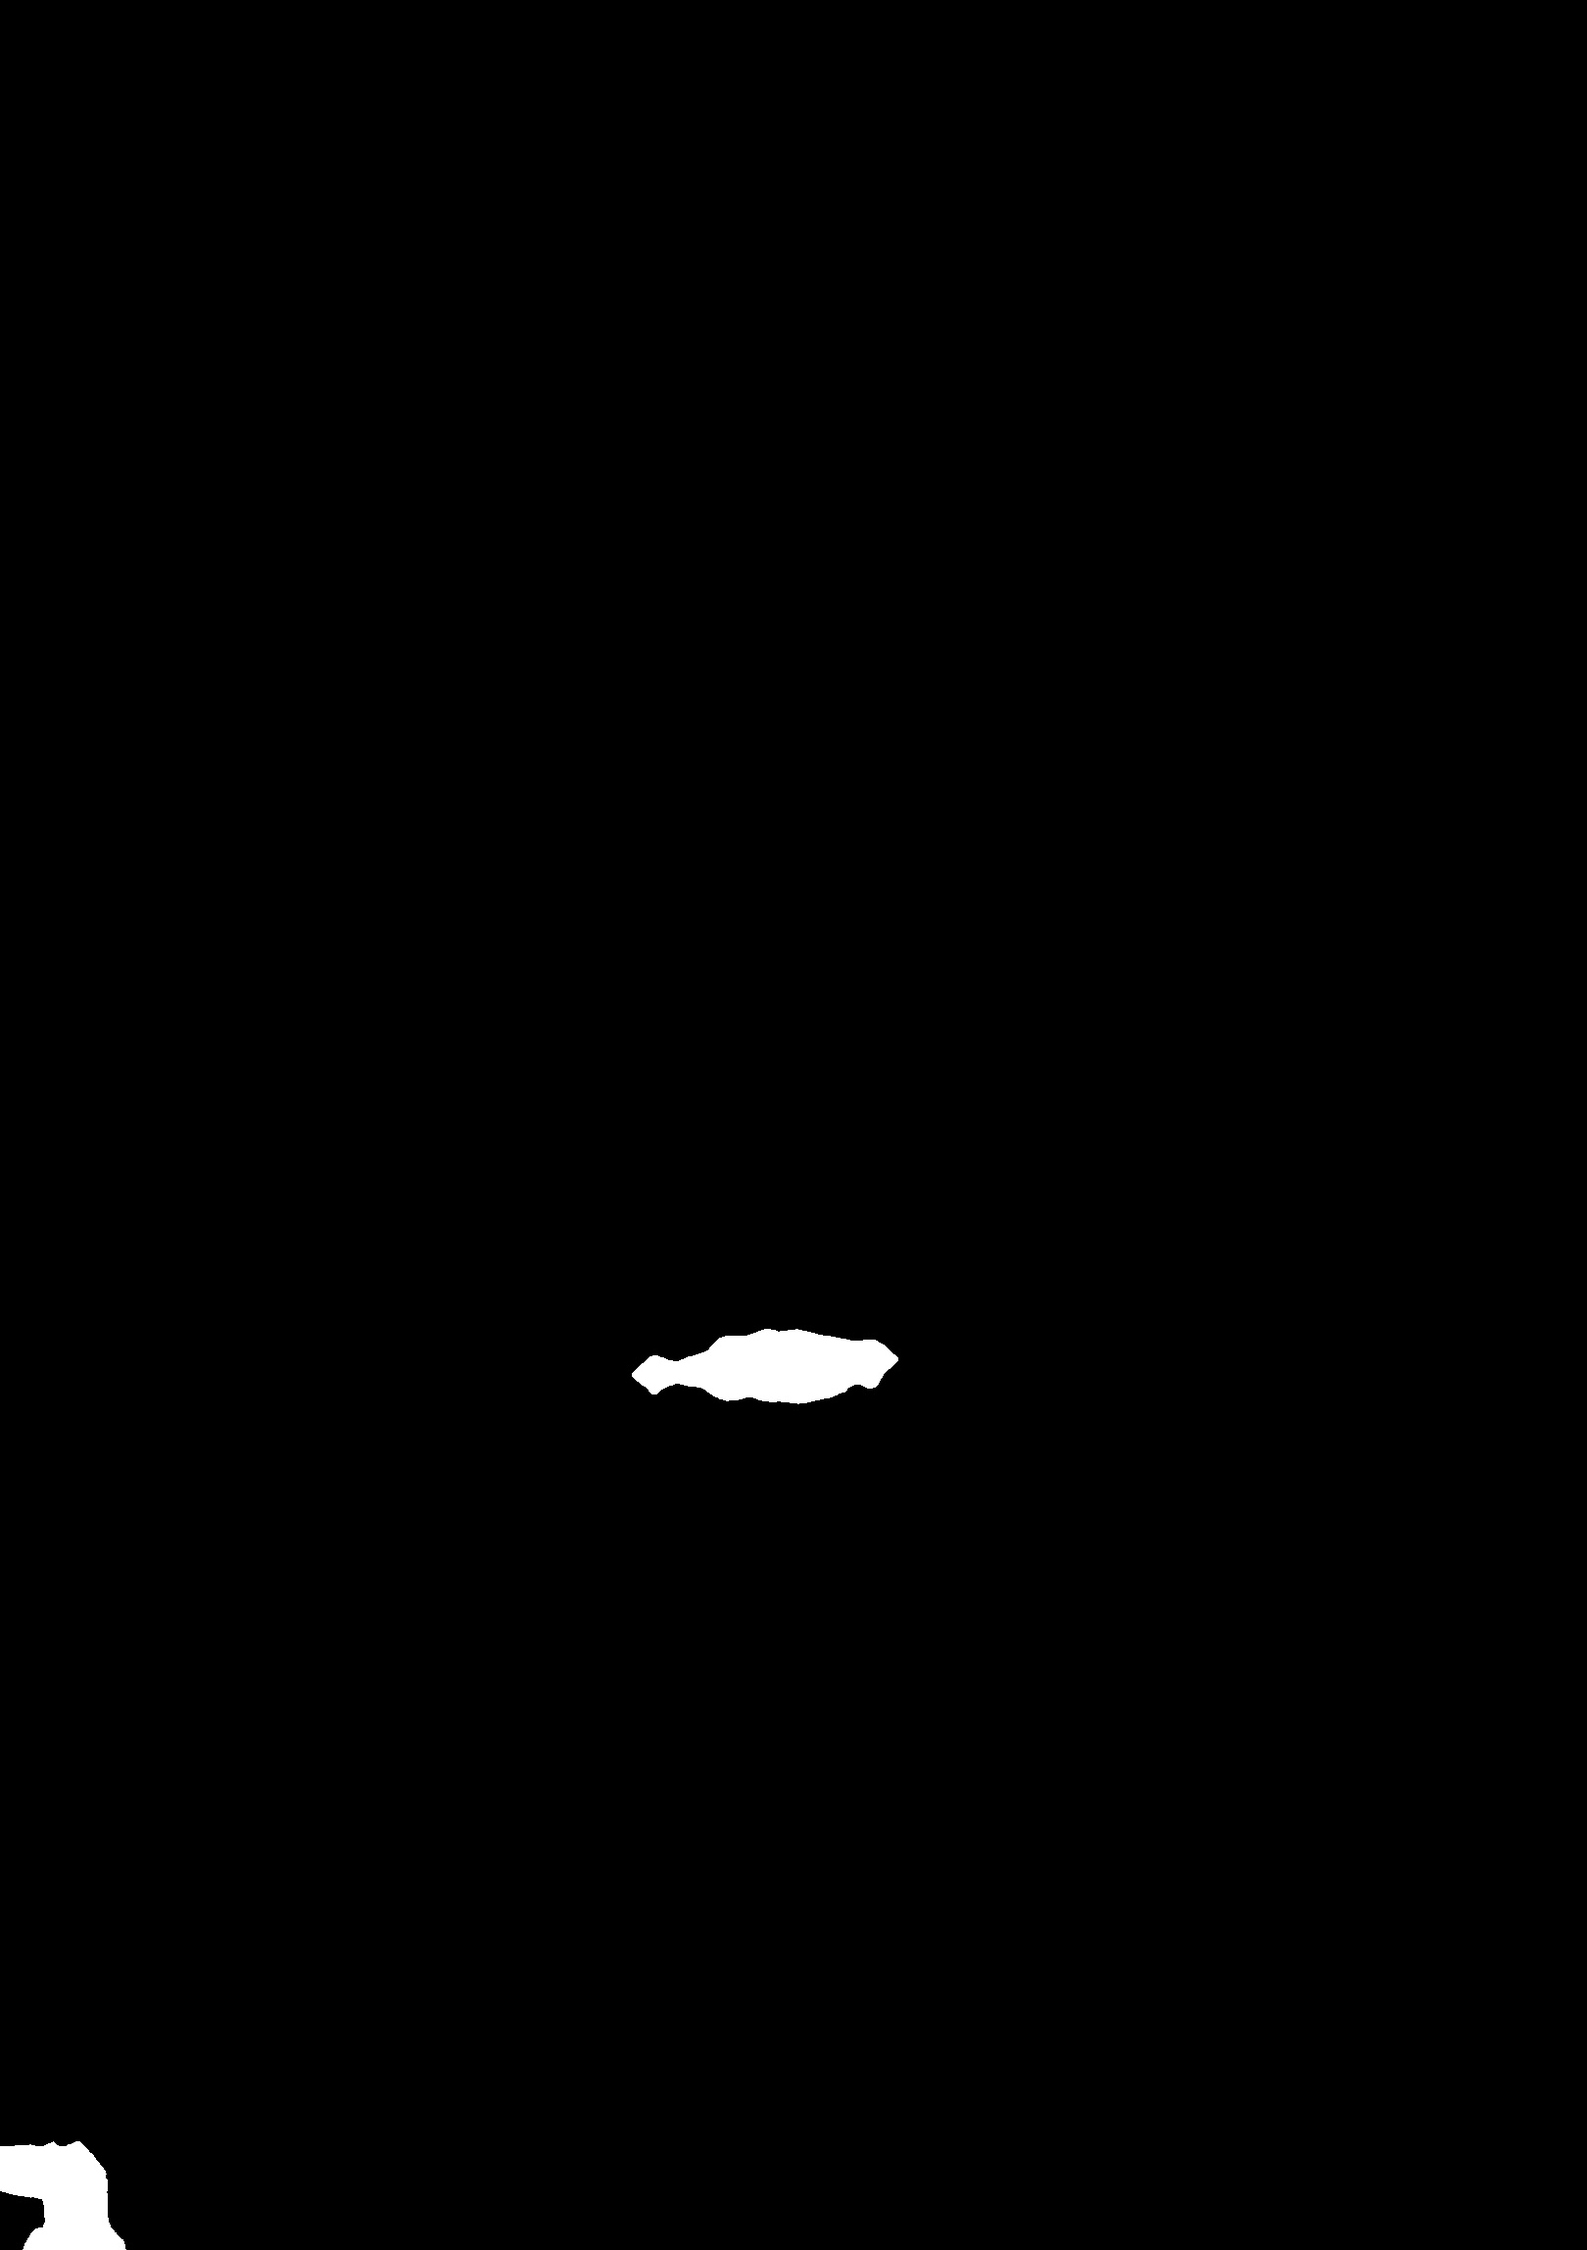
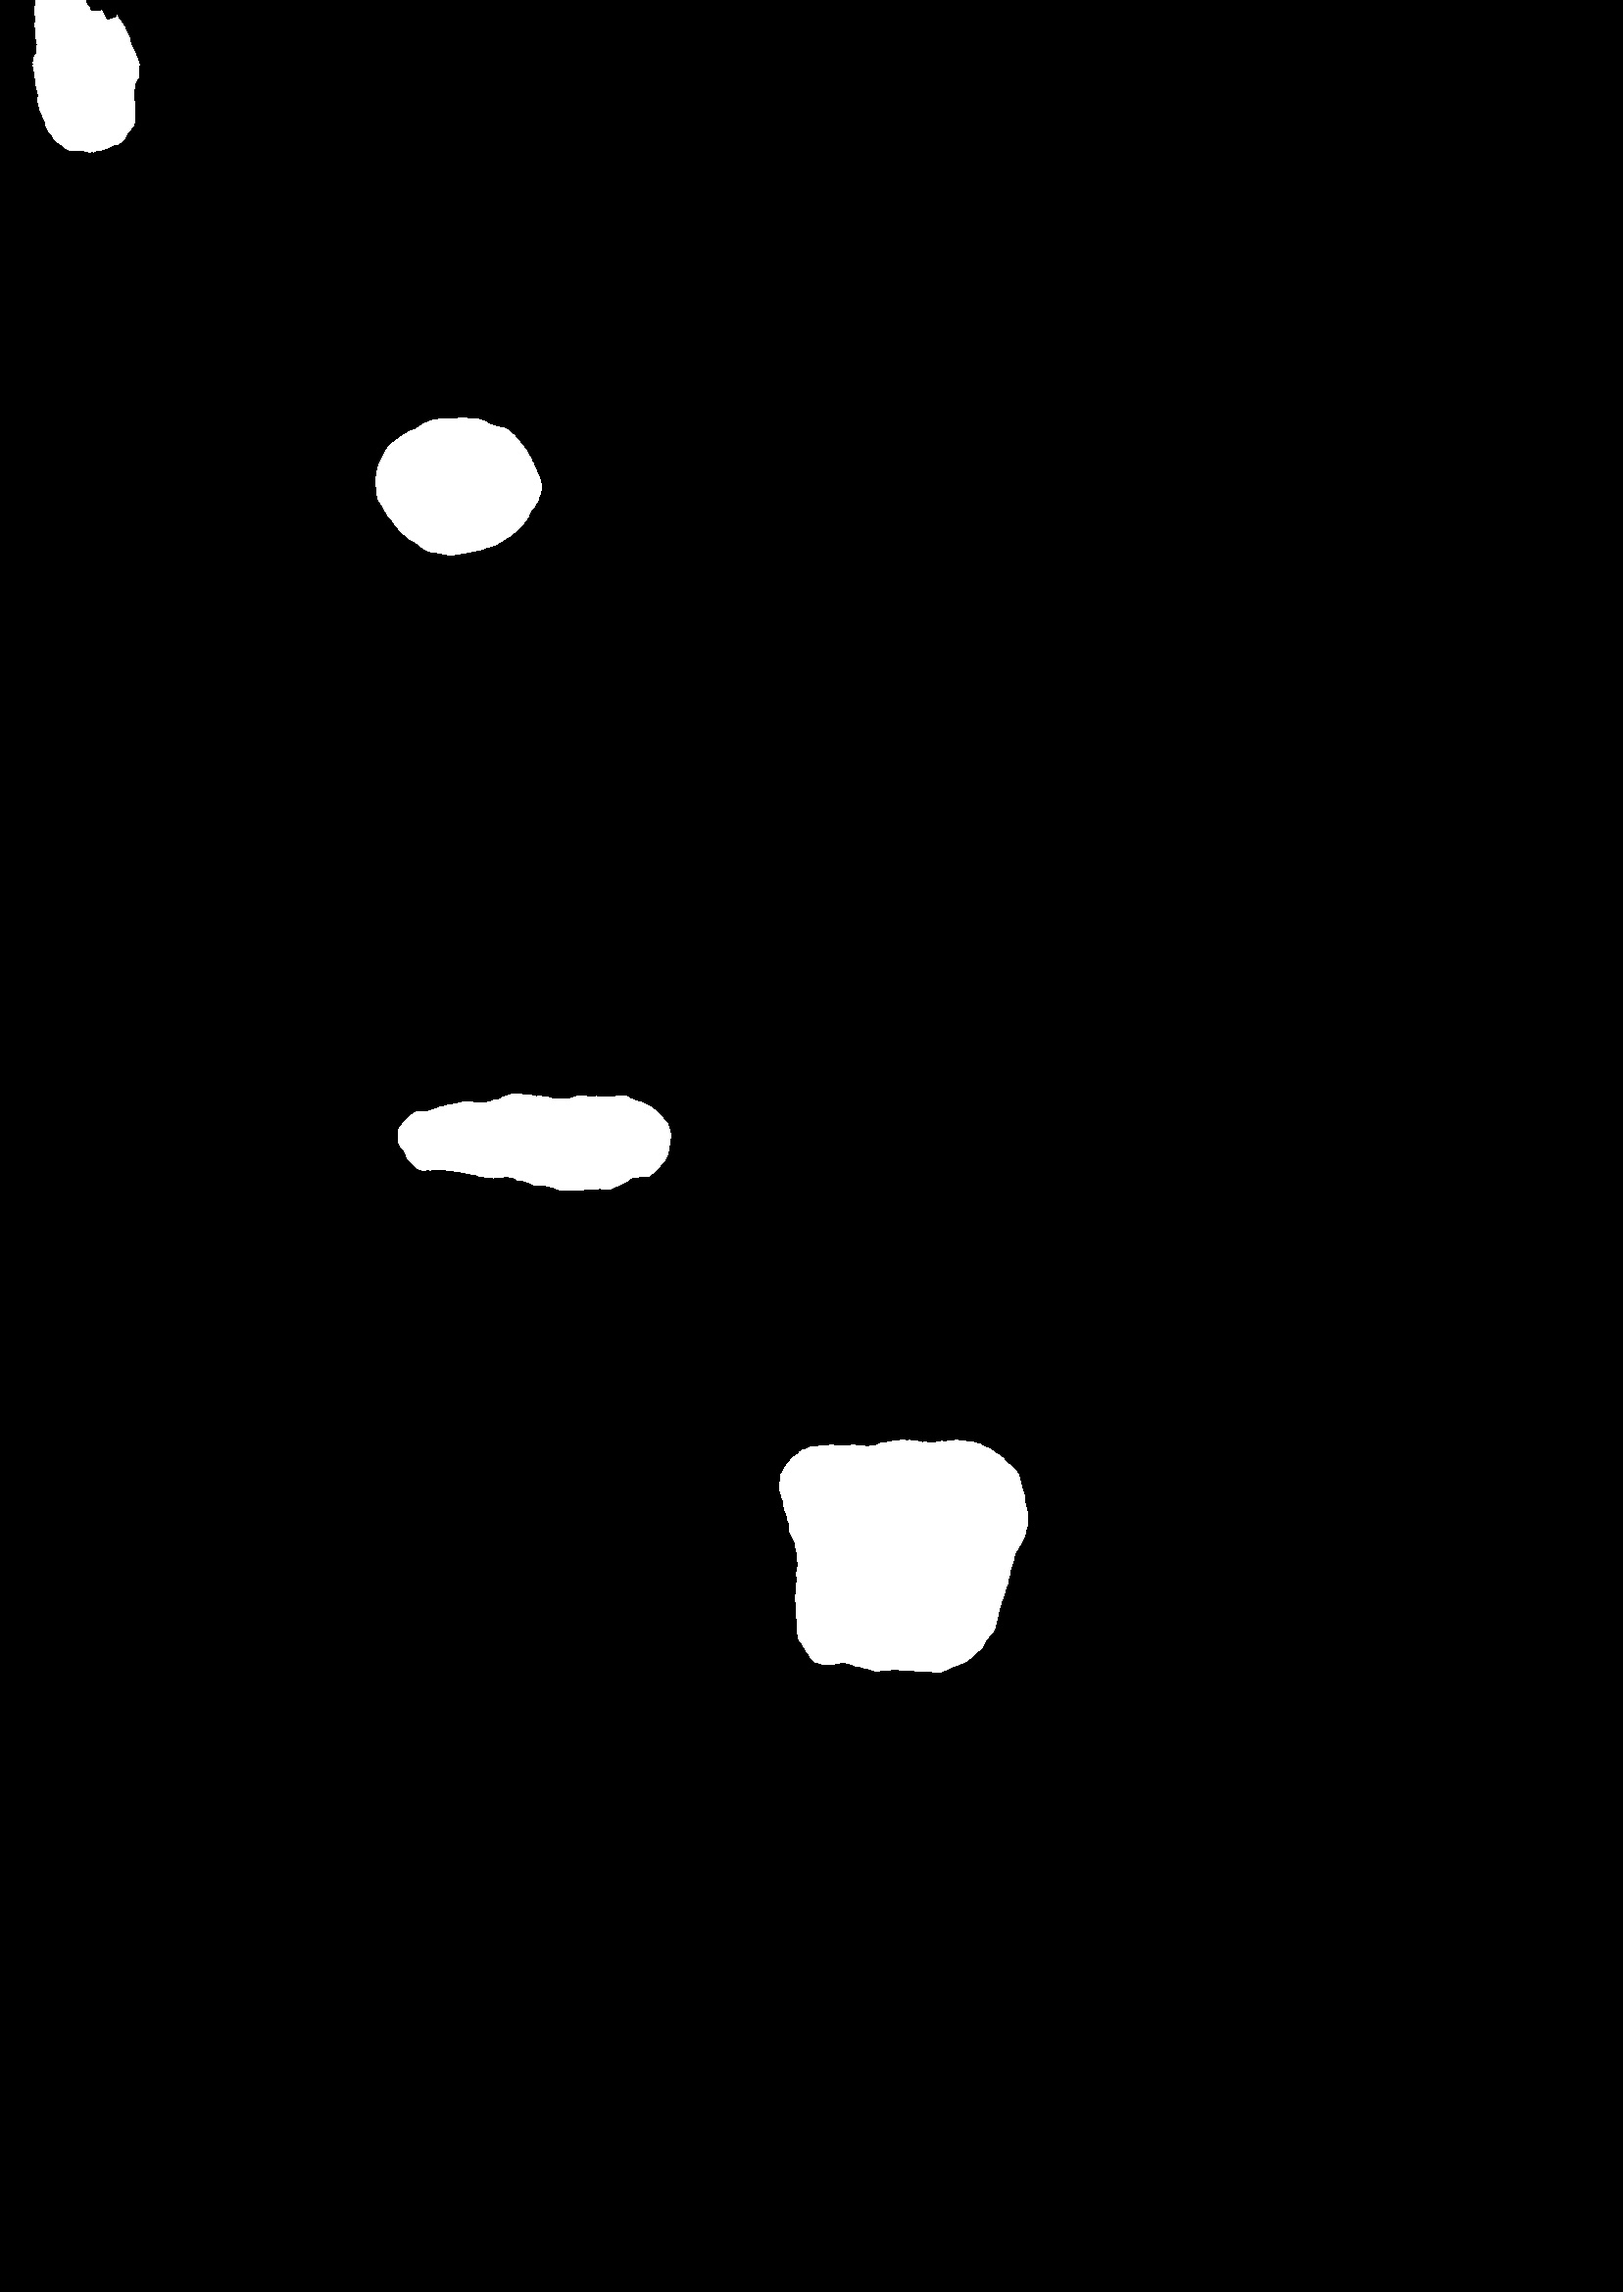
Changed some values + added images - need more exercises to see!

diff --git a/DetectApproxSquare.java b/DetectApproxSquare.java
@@ -43,18 +43,19 @@ public class DetectApproxSquare {
 		// filename = "Pixels.jpg";
 		// filename = "Points.jpg";
 		// filename = "Squares.jpg";
-		filename = "postit_1.jpg";
+		// filename = "postit_1.jpg";
+		filename = "highlighter_1.jpg";
 
 		// loads the image
 		orgImg = cvLoadImage(filename);
 
 		// size of the "control card"
-		size = 15;
+		size = 50;
 
 		// gets the mean color in the "control card"
-		// CvScalar mean = mean(orgImg, 0, 0, size, size);
+		CvScalar mean = mean(orgImg, 0, 0, size, size);
 		// CvScalar mean = mean(orgImg, orgImg.width()-size, 0, size, size);
-		CvScalar mean = mean(orgImg, 0, orgImg.height()-size, size, size);
+		// CvScalar mean = mean(orgImg, 0, orgImg.height()-size, size, size);
 		// CvScalar mean = mean(orgImg, orgImg.width()-size, orgImg.height()-size, size, size);
 
 		// gets the color from the "control card" and recognizes it
